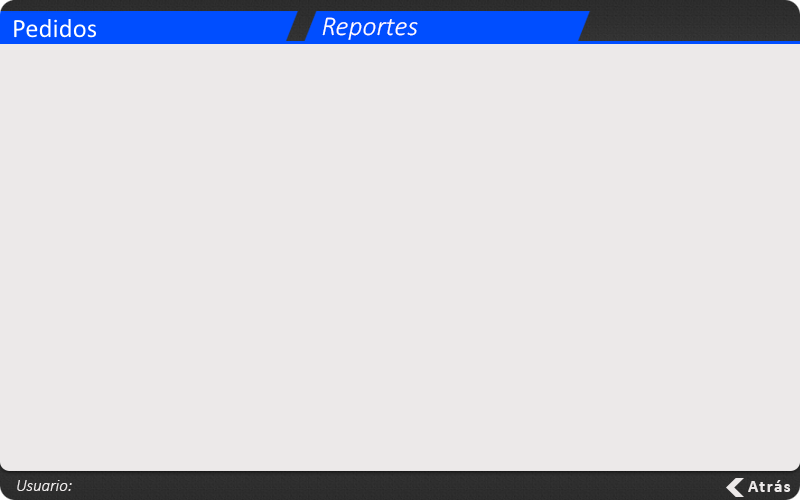
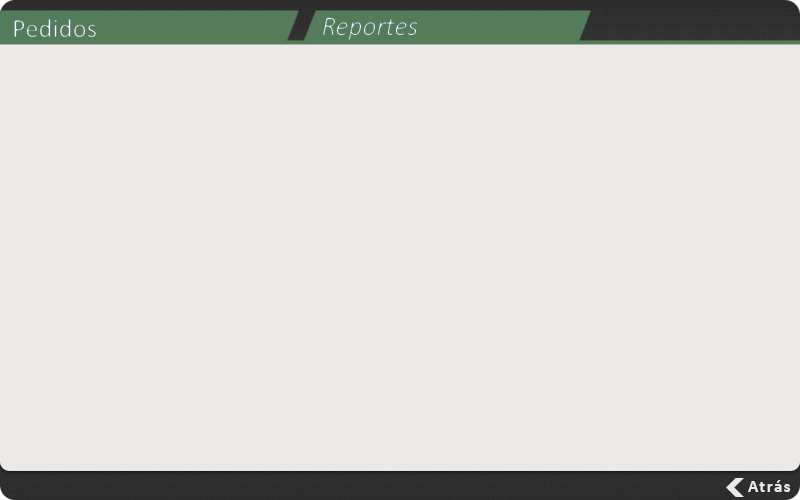
colores

Changed region(s): [[0.0, 0.0, 1.0, 0.09], [0.0312, 0.96, 0.0938, 0.99]]

diff --git a/AppTienda/src/com/proyecto1dba/GraphicInterface/PanelPedido.java b/AppTienda/src/com/proyecto1dba/GraphicInterface/PanelPedido.java
@@ -179,10 +179,10 @@ DateFormat dateFormatIng = new SimpleDateFormat("yyyy/MM/dd");
         jFormattedTextField_Total = new javax.swing.JFormattedTextField();
         jLabel16 = new javax.swing.JLabel();
         jFormattedTextField_Cliente = new javax.swing.JFormattedTextField();
-        BuscarP = new javax.swing.JLabel();
+        trashBtt = new javax.swing.JLabel();
         saveBtt = new javax.swing.JLabel();
         background = new javax.swing.JLabel();
-        trashBtt1 = new javax.swing.JLabel();
+        BuscarP = new javax.swing.JLabel();
 
         jDialog_CrearProducto.setTitle("Crear Producto");
         jDialog_CrearProducto.setMinimumSize(new java.awt.Dimension(400, 230));
@@ -981,26 +981,26 @@ DateFormat dateFormatIng = new SimpleDateFormat("yyyy/MM/dd");
         jLayeredPane1.add(jFormattedTextField_Cliente);
         jFormattedTextField_Cliente.setBounds(220, 26, 250, 20);
 
-        BuscarP.setIcon(new javax.swing.ImageIcon(getClass().getResource("/com.proyecto1dba.Images/trashBtt.png"))); // NOI18N
-        BuscarP.setToolTipText("Eliminar fila seleccionada");
-        BuscarP.setCursor(new java.awt.Cursor(java.awt.Cursor.DEFAULT_CURSOR));
-        BuscarP.setMaximumSize(new java.awt.Dimension(40, 20));
-        BuscarP.setMinimumSize(new java.awt.Dimension(40, 20));
-        BuscarP.setPreferredSize(new java.awt.Dimension(40, 20));
-        BuscarP.addMouseListener(new java.awt.event.MouseAdapter() {
+        trashBtt.setIcon(new javax.swing.ImageIcon(getClass().getResource("/com.proyecto1dba.Images/trashBtt.png"))); // NOI18N
+        trashBtt.setToolTipText("Eliminar fila seleccionada");
+        trashBtt.setCursor(new java.awt.Cursor(java.awt.Cursor.DEFAULT_CURSOR));
+        trashBtt.setMaximumSize(new java.awt.Dimension(40, 20));
+        trashBtt.setMinimumSize(new java.awt.Dimension(40, 20));
+        trashBtt.setPreferredSize(new java.awt.Dimension(40, 20));
+        trashBtt.addMouseListener(new java.awt.event.MouseAdapter() {
             public void mouseClicked(java.awt.event.MouseEvent evt) {
-                BuscarPMouseClicked(evt);
+                trashBttMouseClicked(evt);
             }
             public void mouseEntered(java.awt.event.MouseEvent evt) {
-                BuscarPMouseEntered(evt);
+                trashBttMouseEntered(evt);
             }
             public void mouseExited(java.awt.event.MouseEvent evt) {
-                BuscarPMouseExited(evt);
+                trashBttMouseExited(evt);
             }
         });
-        jLayeredPane1.setLayer(BuscarP, javax.swing.JLayeredPane.PALETTE_LAYER);
-        jLayeredPane1.add(BuscarP);
-        BuscarP.setBounds(10, 120, 40, 40);
+        jLayeredPane1.setLayer(trashBtt, javax.swing.JLayeredPane.PALETTE_LAYER);
+        jLayeredPane1.add(trashBtt);
+        trashBtt.setBounds(10, 120, 40, 40);
 
         saveBtt.setIcon(new javax.swing.ImageIcon(getClass().getResource("/com.proyecto1dba.Images/saveBtt.png"))); // NOI18N
         saveBtt.setToolTipText("Guardar factura");
@@ -1032,26 +1032,26 @@ DateFormat dateFormatIng = new SimpleDateFormat("yyyy/MM/dd");
         jLayeredPane1.add(background);
         background.setBounds(0, 0, 760, 480);
 
-        trashBtt1.setIcon(new javax.swing.ImageIcon(getClass().getResource("/com.proyecto1dba.Images/searchBtt.png"))); // NOI18N
-        trashBtt1.setToolTipText("Eliminar fila seleccionada");
-        trashBtt1.setCursor(new java.awt.Cursor(java.awt.Cursor.DEFAULT_CURSOR));
-        trashBtt1.setMaximumSize(new java.awt.Dimension(40, 20));
-        trashBtt1.setMinimumSize(new java.awt.Dimension(40, 20));
-        trashBtt1.setPreferredSize(new java.awt.Dimension(40, 20));
-        trashBtt1.addMouseListener(new java.awt.event.MouseAdapter() {
+        BuscarP.setIcon(new javax.swing.ImageIcon(getClass().getResource("/com.proyecto1dba.Images/searchBtt.png"))); // NOI18N
+        BuscarP.setToolTipText("Eliminar fila seleccionada");
+        BuscarP.setCursor(new java.awt.Cursor(java.awt.Cursor.DEFAULT_CURSOR));
+        BuscarP.setMaximumSize(new java.awt.Dimension(40, 20));
+        BuscarP.setMinimumSize(new java.awt.Dimension(40, 20));
+        BuscarP.setPreferredSize(new java.awt.Dimension(40, 20));
+        BuscarP.addMouseListener(new java.awt.event.MouseAdapter() {
             public void mouseClicked(java.awt.event.MouseEvent evt) {
-                trashBtt1MouseClicked(evt);
+                BuscarPMouseClicked(evt);
             }
             public void mouseEntered(java.awt.event.MouseEvent evt) {
-                trashBtt1MouseEntered(evt);
+                BuscarPMouseEntered(evt);
             }
             public void mouseExited(java.awt.event.MouseEvent evt) {
-                trashBtt1MouseExited(evt);
+                BuscarPMouseExited(evt);
             }
         });
-        jLayeredPane1.setLayer(trashBtt1, javax.swing.JLayeredPane.PALETTE_LAYER);
-        jLayeredPane1.add(trashBtt1);
-        trashBtt1.setBounds(10, 70, 40, 40);
+        jLayeredPane1.setLayer(BuscarP, javax.swing.JLayeredPane.PALETTE_LAYER);
+        jLayeredPane1.add(BuscarP);
+        BuscarP.setBounds(10, 70, 40, 40);
 
         javax.swing.GroupLayout layout = new javax.swing.GroupLayout(this);
         this.setLayout(layout);
@@ -1093,7 +1093,7 @@ DateFormat dateFormatIng = new SimpleDateFormat("yyyy/MM/dd");
      * Este metodo es para poder eliminar una fila de la tabla de crear factura
      */
     private void eliminarFila() {
-//        MyTableModel_FACT model = (MyTableModel_FACT) jTable_Factura.getModel();
+      //  MyTableModel_FACT model = (MyTableModel_FACT) jTable_Factura.getModel();
 //        int row = jTable_Factura.getSelectedRow();
 //        ///Si se esta escribiendo en la celda para el editor y luego elimina la
 //        // fila
@@ -1648,9 +1648,9 @@ DateFormat dateFormatIng = new SimpleDateFormat("yyyy/MM/dd");
 
     }//GEN-LAST:event_jButton_CrearClienteKeyPressed
 
-    private void BuscarPMouseClicked(java.awt.event.MouseEvent evt) {//GEN-FIRST:event_BuscarPMouseClicked
+    private void trashBttMouseClicked(java.awt.event.MouseEvent evt) {//GEN-FIRST:event_trashBttMouseClicked
         this.eliminarFila();
-    }//GEN-LAST:event_BuscarPMouseClicked
+    }//GEN-LAST:event_trashBttMouseClicked
     private boolean revisarProductosFactura(){
         if(this.jTable_Factura.getValueAt(0,0).equals("")){
             JOptionPane.showMessageDialog(
@@ -1687,13 +1687,13 @@ DateFormat dateFormatIng = new SimpleDateFormat("yyyy/MM/dd");
 //        justSavePrincipalCall();}
     }//GEN-LAST:event_saveBttMouseClicked
 
-    private void BuscarPMouseEntered(java.awt.event.MouseEvent evt) {//GEN-FIRST:event_BuscarPMouseEntered
-        BuscarP.setIcon(new javax.swing.ImageIcon(getClass().getResource("/com.proyecto1dba.Images/trashBttOvr.png")));
-    }//GEN-LAST:event_BuscarPMouseEntered
+    private void trashBttMouseEntered(java.awt.event.MouseEvent evt) {//GEN-FIRST:event_trashBttMouseEntered
+        trashBtt.setIcon(new javax.swing.ImageIcon(getClass().getResource("/com.proyecto1dba.Images/trashBttOvr.png")));
+    }//GEN-LAST:event_trashBttMouseEntered
 
-    private void BuscarPMouseExited(java.awt.event.MouseEvent evt) {//GEN-FIRST:event_BuscarPMouseExited
-        BuscarP.setIcon(new javax.swing.ImageIcon(getClass().getResource("/com.proyecto1dba.Images/trashBtt.png")));
-    }//GEN-LAST:event_BuscarPMouseExited
+    private void trashBttMouseExited(java.awt.event.MouseEvent evt) {//GEN-FIRST:event_trashBttMouseExited
+        trashBtt.setIcon(new javax.swing.ImageIcon(getClass().getResource("/com.proyecto1dba.Images/trashBtt.png")));
+    }//GEN-LAST:event_trashBttMouseExited
 
     private void saveBttMouseEntered(java.awt.event.MouseEvent evt) {//GEN-FIRST:event_saveBttMouseEntered
         saveBtt.setIcon(new javax.swing.ImageIcon(getClass().getResource("/com.proyecto1dba.Images/saveBttOvr.png")));
@@ -2165,17 +2165,17 @@ DateFormat dateFormatIng = new SimpleDateFormat("yyyy/MM/dd");
         this.jFormattedTextField_Cliente.selectAll();
     }//GEN-LAST:event_jFormattedTextField_ClienteMouseClicked
 
-    private void trashBtt1MouseClicked(java.awt.event.MouseEvent evt) {//GEN-FIRST:event_trashBtt1MouseClicked
+    private void BuscarPMouseClicked(java.awt.event.MouseEvent evt) {//GEN-FIRST:event_BuscarPMouseClicked
         // TODO add your handling code here:
-    }//GEN-LAST:event_trashBtt1MouseClicked
+    }//GEN-LAST:event_BuscarPMouseClicked
 
-    private void trashBtt1MouseEntered(java.awt.event.MouseEvent evt) {//GEN-FIRST:event_trashBtt1MouseEntered
+    private void BuscarPMouseEntered(java.awt.event.MouseEvent evt) {//GEN-FIRST:event_BuscarPMouseEntered
          BuscarP.setIcon(new javax.swing.ImageIcon(getClass().getResource("/com.proyecto1dba.Images/searchBttOvr.png")));
-    }//GEN-LAST:event_trashBtt1MouseEntered
+    }//GEN-LAST:event_BuscarPMouseEntered
 
-    private void trashBtt1MouseExited(java.awt.event.MouseEvent evt) {//GEN-FIRST:event_trashBtt1MouseExited
+    private void BuscarPMouseExited(java.awt.event.MouseEvent evt) {//GEN-FIRST:event_BuscarPMouseExited
         BuscarP.setIcon(new javax.swing.ImageIcon(getClass().getResource("/com.proyecto1dba.Images/searchBtt.png")));
-    }//GEN-LAST:event_trashBtt1MouseExited
+    }//GEN-LAST:event_BuscarPMouseExited
     /**
      * Este metodo devuelve toda la informacion de la tabla de crear factura
      *
@@ -2347,7 +2347,7 @@ DateFormat dateFormatIng = new SimpleDateFormat("yyyy/MM/dd");
     javax.swing.JTextField jTextField_nombre;
     javax.swing.JLabel lbPagoTitle;
     javax.swing.JLabel saveBtt;
-    javax.swing.JLabel trashBtt1;
+    javax.swing.JLabel trashBtt;
     // End of variables declaration//GEN-END:variables
     /**
      * Este metodo permite crear una factura y guardala en la base de datos

diff --git a/AppTienda/src/com/proyecto1dba/GraphicInterface/JF_PedidoReporte.java b/AppTienda/src/com/proyecto1dba/GraphicInterface/JF_PedidoReporte.java
@@ -26,7 +26,7 @@ public class JF_PedidoReporte extends javax.swing.JFrame {
         initComponents();
         startComponents();
         //setLocation(StartWindow.getPosX(), StartWindow.getPosY());
-        labUsuario.setText("Admin");
+        
     }
     
     private void startComponents(){
@@ -86,7 +86,6 @@ public class JF_PedidoReporte extends javax.swing.JFrame {
     private void initComponents() {
 
         jLayeredPane1 = new javax.swing.JLayeredPane();
-        labUsuario = new javax.swing.JLabel();
         bttPedido = new javax.swing.JLabel();
         jLabel2 = new javax.swing.JLabel();
         bttRep = new javax.swing.JLabel();
@@ -105,12 +104,6 @@ public class JF_PedidoReporte extends javax.swing.JFrame {
         jLayeredPane1.setBackground(new java.awt.Color(153, 153, 153));
         jLayeredPane1.setMinimumSize(new java.awt.Dimension(800, 500));
         jLayeredPane1.setOpaque(true);
-
-        labUsuario.setFont(new java.awt.Font("Calibri", 2, 14)); // NOI18N
-        labUsuario.setForeground(new java.awt.Color(255, 255, 255));
-        labUsuario.setText("Nombre de Usuario Aquí - Cargo");
-        jLayeredPane1.add(labUsuario);
-        labUsuario.setBounds(80, 480, 540, 17);
 
         bttPedido.setIcon(new javax.swing.ImageIcon(getClass().getResource("/com.proyecto1dba.Images/bttPedAct.png"))); // NOI18N
         bttPedido.setCursor(new java.awt.Cursor(java.awt.Cursor.HAND_CURSOR));
@@ -179,6 +172,5 @@ public class JF_PedidoReporte extends javax.swing.JFrame {
     private javax.swing.JLabel bttRep;
     private javax.swing.JLabel jLabel2;
     private javax.swing.JLayeredPane jLayeredPane1;
-    private javax.swing.JLabel labUsuario;
     // End of variables declaration//GEN-END:variables
 }
